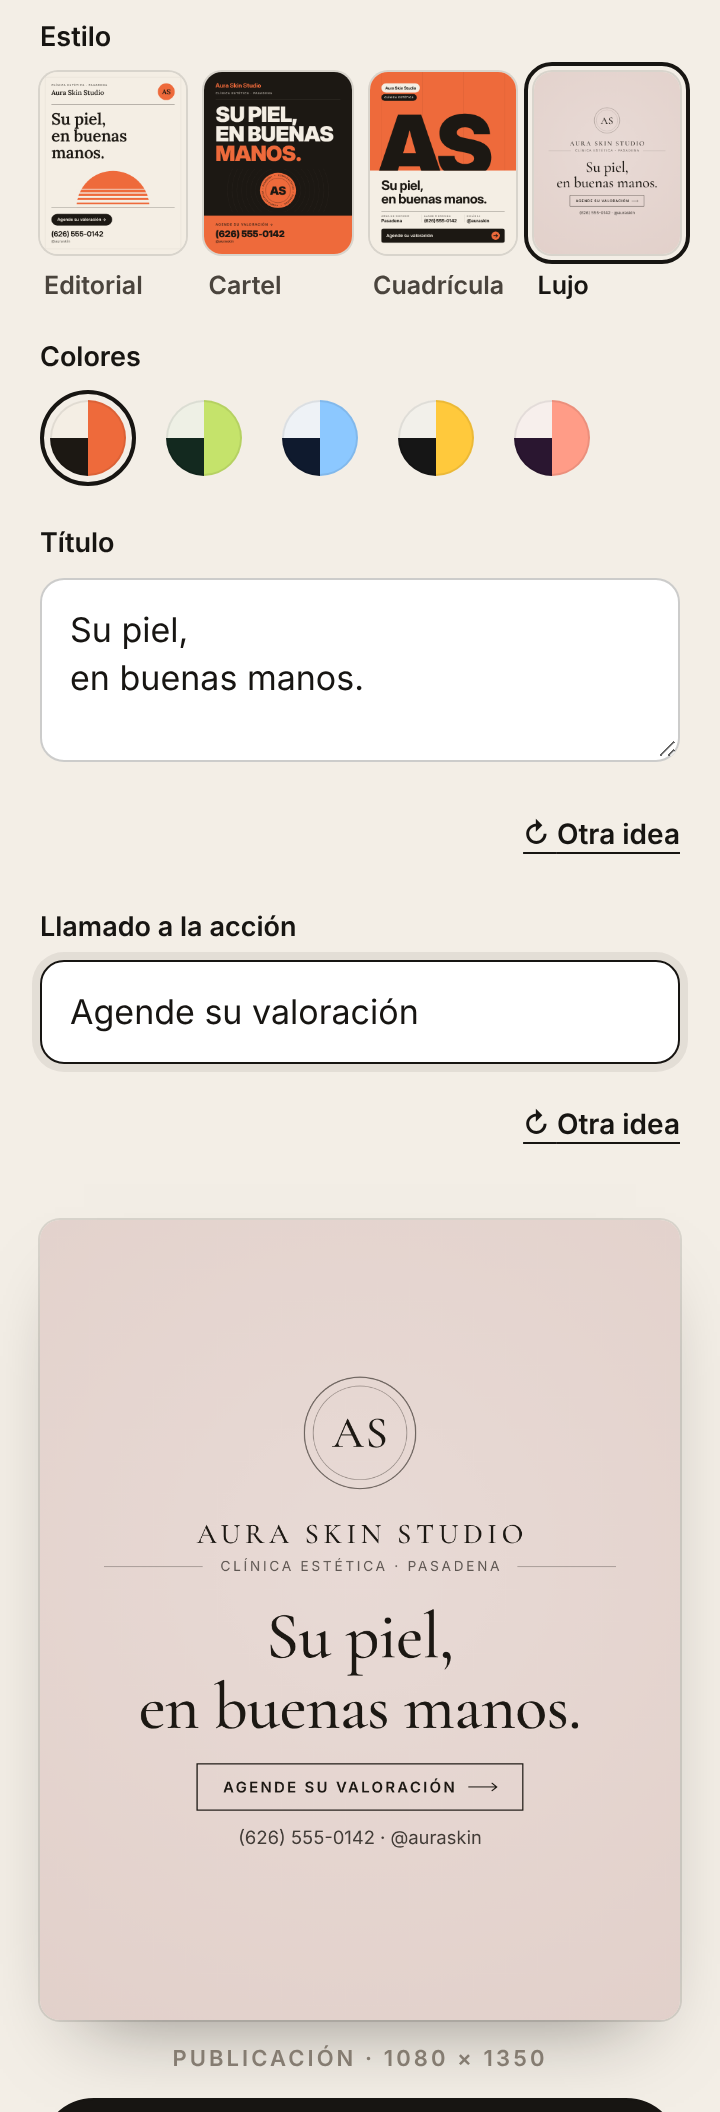
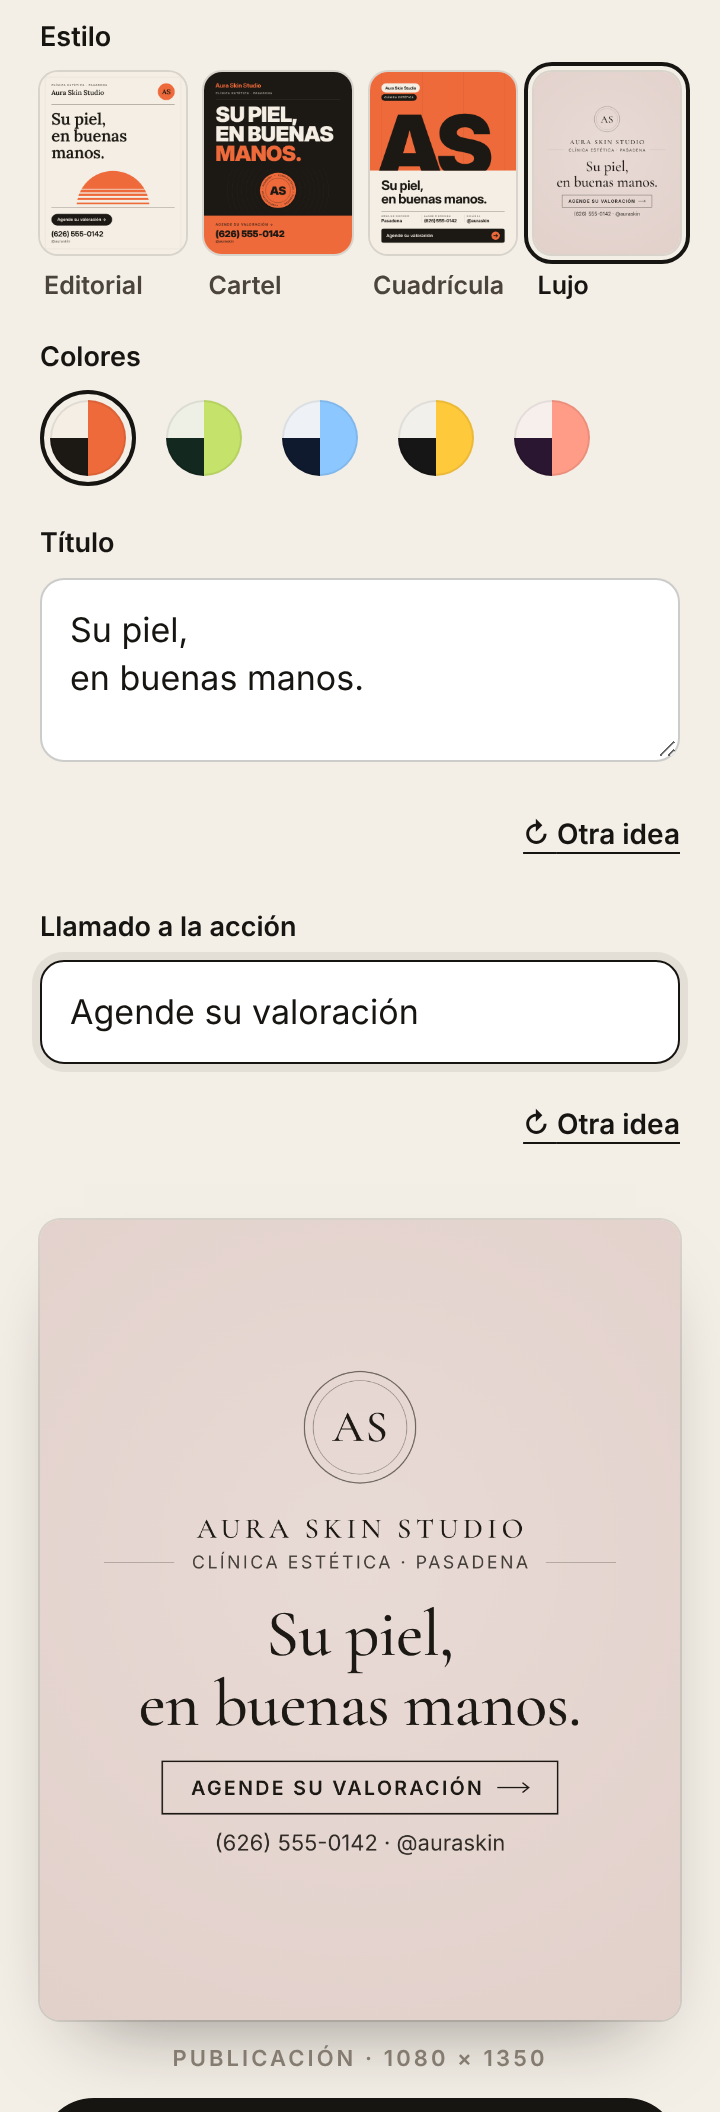
test: add phone-width review, sample exports and refreshed QA results
- qa/phone-view.cjs: exports a realistic post and story through the real
  app UI and shows them at 360 px phone width, with measured on-screen
  text sizes; optional --before comparison.
- qa/luxury-editorial: phone-view-360.png, sample-post.png,
  sample-story.png, refreshed sheets and results (70/70).
- Docs: readability pass, Spanish fix, updated counts.

Claude-Session: https://claude.ai/code/session_01SCLHHujzyZF9omTDr7wgox

diff --git a/qa/luxury-editorial/NOTES.md b/qa/luxury-editorial/NOTES.md
@@ -43,9 +43,11 @@ styles, in English and Mexican Spanish.
    - no short word alone on the last line.
 
    It may give up to 25% of size for a clearly better break ("Su piel, / en buenas manos."). Line
-   breaks the owner types are kept. Contacts and service · area split between items, never next to a "·".
-7. **Legible on a phone.** The smallest text is 17 px of 1080 (labels). Contacts run 21–31 px and the
-   CTA 17–25 px. Side margins are 108 px (other styles use 84) for more air.
+   breaks the owner types are kept. Contacts and service · area split between items, never next to a
+   "·", and a long area breaks at a comma rather than inside a place name ("LA / VERNE").
+7. **Readable at real phone width.** A 360 px wide phone shows the 1080 px export at a third of its
+   size, so the small text is sized for that view (see *Mobile readability pass* below). Side margins
+   are 108 px (other styles use 84) for more air.
 8. **Logos.**
    - Empty margins around an uploaded logo are trimmed automatically.
    - Transparent dark logos sit straight on the tint.
@@ -59,6 +61,42 @@ styles, in English and Mexican Spanish.
 - The long description. It belongs in the caption and bio; a cover is not a flyer.
 - Arches (Editorial's), stamps (Poster's), giant initials (Grid's) and rounded app-style corners.
 
+## Mobile readability pass
+
+The exports were reviewed as a 360 px wide Android phone shows them, not at 1080 px. On screen, the
+service · area line, the call to action and the contacts were too small. The layout, typefaces and
+hierarchy are unchanged; only size, letter-spacing, contrast and the button's proportions moved.
+
+| On a 360 px phone (screen px) | Post before → after | Story before → after | Target |
+|---|---|---|---|
+| Service · area | 7.7 → **10.0** | 8.7 → **11.3** | ≥ 10 |
+| Call to action | 8.3 → **11.0** | 9.3 → **12.3** | ≥ 11 |
+| Phone · Instagram | 10.3 → **12.3** | 11.7 → **13.7** | ≥ 12 |
+| Business name | 16 | 18 → 17 (now one line, like the post) | |
+| Headline | 35 | 41 | |
+
+- **Service · area:** tracking 0.20 → 0.14 em, 68% → 80% ink.
+- **Call to action:** tracking 0.16 → 0.12 em. The size is solved from the text so the button never
+  overflows, with tighter padding and an outline that scales with the text. A very long CTA (33+
+  characters; every built-in one is 27 or fewer) wraps to two even lines in the same button instead of
+  shrinking into fine print or being cut.
+- **Contacts:** 82% → 90% ink.
+- **Business name:** stays on one line when that costs no more than 15% of its size.
+- **Long details:** for very long names, areas or contact lists, text still never drops below 8 px on
+  screen and is never cut off.
+
+`qa/phone-view.cjs` exports a realistic post and story through the real app and shows them at 360 px
+with these measurements (`phone-view-360.png`, `sample-post.png`, `sample-story.png`).
+
+## Spanish copy fix
+
+For typed-in services the first Spanish headline was "{S} local, hecho con cuidado.", which breaks for
+feminine services ("Clínica estética … hecho") and plural ones ("Bienes raíces local"). Guessing gender
+and number from what an owner types is unreliable, so the line now needs no agreement:
+**"{S} cerca de usted, con atención y cuidado."** It keeps *usted* and makes no claims. A diff of all
+2,544 generated strings against `main` shows that only this headline changed. A self-test locks it in
+for feminine, masculine and plural services.
+
 ## Compatibility and cost
 
 - **Saved choices.** Luxury is style index 3, so existing saved choices (0–2) keep their meaning.
@@ -66,19 +104,20 @@ styles, in English and Mexican Spanish.
   upload, camera, logo/photo, save, share and open are unchanged.
 - **Existing styles untouched.** Editorial, Poster, Grid, before/after and the setup-screen examples
   render pixel-identical to `main` (109 renders compared by `qa/run-checks.cjs --baseline`).
-- **Page size.** `index.html` goes from 319 KB to 372 KB (+53 KB; +32 KB gzipped). 31 KB of that is
-  the font, 12 KB the template and 9 KB the new self-tests.
+- **Page size.** `index.html` goes from 319 KB to 376 KB (+57 KB; +33 KB gzipped). 31 KB of that is
+  the font; the rest is the template and its self-tests.
 - **Redraw time per edit** (post, story and all four thumbnails), at 4× CPU slowdown:
-  - Editorial 31 ms
+  - Editorial 34 ms
   - Poster 29 ms
-  - Grid 53 ms
-  - Luxury 43 ms
+  - Grid 46 ms
+  - Luxury 41 ms
 
 ## Tests
 
-- **`#selftest`** now runs 29 checks (was 20). Nine are new for Luxury:
+- **`#selftest`** now runs 31 checks (was 20). Ten are new for Luxury:
   - safe areas and side margins, never text on the photo, nothing cut off (50 renders: EN/ES × post/story ×
-    none/photo/portrait/logo/solid logo × normal/long/maximum-length details);
+    none/photo/portrait/logo/solid logo × normal/long/form-maximum details);
+  - readable at 360 px phone width (the targets above);
   - only owner-provided text is drawn;
   - headline and CTA edits appear;
   - natural line breaks for every built-in headline;
@@ -87,8 +126,9 @@ styles, in English and Mexican Spanish.
   - picker registration and fallback;
   - PNG exports at 1080 × 1350 and 1080 × 1920.
 
-  The fonts and "all styles" checks now cover the new font and the fourth style.
-- **`qa/run-checks.cjs`** runs 68 checks in headless Chromium. It drives the real owner flow at
+  One more locks in the Spanish copy fix. The fonts and "all styles" checks now cover the new font and
+  the fourth style.
+- **`qa/run-checks.cjs`** runs 70 checks in headless Chromium. It drives the real owner flow at
   320/360/412 px in EN and ES (pick Luxury, edit, save both PNGs, reload) and uploads a photo and
   two logos through the actual file input. It also checks timing and, with `--baseline`, pixel
   regression. Latest results are in `results.json`.
@@ -97,9 +137,6 @@ styles, in English and Mexican Spanish.
 
 - **Manual Android check still needed** before launch: share sheet, camera capture, real photos and
   a real phone screen.
-- **A pre-existing Spanish copy issue** for typed-in services, which this change does not touch:
-  "{S} local, hecho con cuidado." reads "Clínica estética local, hecho con cuidado." Feminine nouns
-  need "hecha".
 - **Very long single words.** A name made of one very long word (no spaces) shrinks and can end in
   "…", the same as in every other style.
 - **Font fallback.** If Cormorant ever failed to load, the template falls back to Georgia. Text still

diff --git a/README.md b/README.md
@@ -22,11 +22,12 @@ One file: `index.html` (about 370 KB). No login, database, tracking, AI, paid AP
 Your details are saved only on this phone, so the kit is still there when you come back. **Clear my info** at the bottom of the page erases it (tap twice).
 
 ## Tests
-Open the page with `#selftest` at the end of the address, for example `https://your-site.pages.dev/#selftest`. It runs 29 checks in your phone's browser and lists pass or fail for each:
+Open the page with `#selftest` at the end of the address, for example `https://your-site.pages.dev/#selftest`. It runs 31 checks in your phone's browser and lists pass or fail for each:
 - Every English string has a Spanish version, and every service type has complete copy.
 - All 24 combinations of language × service × full or minimal details produce 5 messages, 7 ideas and a bio of 150 characters or fewer, with no "undefined" or broken blanks.
 - No invented discounts, "free", "#1", "best", star ratings, "licensed/insured" or similar claims anywhere in the copy.
 - Review requests contain no incentives and no "if you were happy" gating.
+- Spanish headlines for typed-in services read correctly whatever the service's gender or number (for example *clínica*, *diseño*, *bienes raíces*).
 - No contact details appear that the owner didn't type.
 - Phone, handle, website and initials formatting work.
 - The page policy blocks all network requests, and all 7 embedded fonts load.
@@ -34,6 +35,7 @@ Open the page with `#selftest` at the end of the address, for example `https://y
 - 48 renders (4 styles × post/story × no image/photo/logo × EN/ES, with a very long name and service area) all draw inside their safe areas.
 - Luxury Editorial gets 50 more renders: EN/ES × post/story × no image, landscape or portrait photo, transparent or solid logo × normal, long and maximum-length details. These checks confirm that:
   - text stays inside the safe area and side margins, never on the photo, and nothing is cut off;
+  - on a 360 px wide phone the contacts show at 12 px or more, the call to action at 11 px or more and service · area at 10 px or more;
   - it draws only text the owner typed;
   - edited headlines and calls to action appear;
   - built-in headlines break naturally in both languages;
@@ -42,11 +44,12 @@ Open the page with `#selftest` at the end of the address, for example `https://y
   - the style is listed in both languages.
 - Exports (Luxury included, with and without a photo) are real PNGs at exactly 1080 × 1350 and 1080 × 1920.
 
-Latest automated run: 29/29 built-in self-tests and 68/68 headless checks pass (`qa/run-checks.cjs` in Chromium at 320, 360 and 412px, English and Spanish). The headless checks cover the full owner flow with the Luxury style: pick it, edit, save both images, upload a photo and two logos, and reload. They also confirm that the other styles are pixel-identical to the previous version. An earlier pass, before Luxury was added, also covered the full flow in desktop Chrome at phone sizes: fill in the form, try all 3 styles, save, upload a photo and a logo (each was detected correctly), switch to Spanish, use every tab, reload, and confirm the details persist. Sharing to installed Android apps and real camera uploads still require manual phone testing.
+Latest automated run: 31/31 built-in self-tests and 70/70 headless checks pass (`qa/run-checks.cjs` in Chromium at 320, 360 and 412px, English and Spanish). The headless checks cover the full owner flow with the Luxury style: pick it, edit, save both images, upload a photo and two logos, and reload. They also confirm that the other styles are pixel-identical to the previous version. An earlier pass, before Luxury was added, also covered the full flow in desktop Chrome at phone sizes: fill in the form, try all 3 styles, save, upload a photo and a logo (each was detected correctly), switch to Spanish, use every tab, reload, and confirm the details persist. Sharing to installed Android apps and real camera uploads still require manual phone testing.
 
 Developer checks (optional, on a computer with Node and Playwright):
 - `node qa/run-checks.cjs` runs the self-test plus the real owner flow, uploads and exports in headless Chromium.
 - `node qa/contact-sheet.cjs` redraws the review sheets.
+- `node qa/phone-view.cjs` exports a sample post and story through the app and shows them at real phone width.
 
 See `qa/README.md`.
 

diff --git a/qa/README.md b/qa/README.md
@@ -28,5 +28,14 @@ node qa/contact-sheet.cjs
 
 Redraws the review sheets in `qa/luxury-editorial/` with the app's own drawing code.
 
+```bash
+git show 3a79c2d:index.html > /tmp/before.html && node qa/phone-view.cjs --before /tmp/before.html
+```
+
+Exports a realistic Luxury post and story through the real app (fill in, upload, Save image). It then
+shows them 360 px wide, as on an Android phone, with the on-screen size of every text element, and
+writes `sample-post.png`, `sample-story.png` and `phone-view-360.png`. `--before` is optional and adds
+an older copy of the page that already has Luxury; 3a79c2d is the version before the readability pass.
+
 `fixtures/` holds synthetic stand-in photos and logos (no real people, places or brands). Rebuild them
 with `python3 qa/fixtures/make_fixtures.py` (needs numpy and Pillow).
